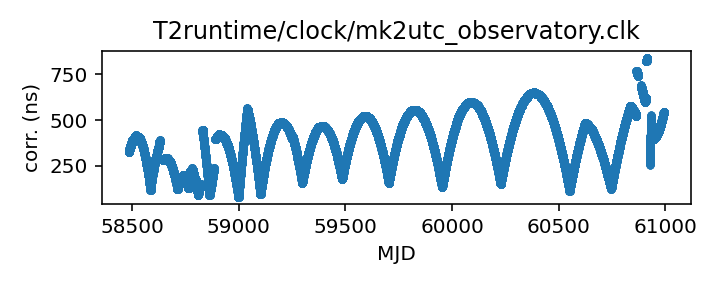
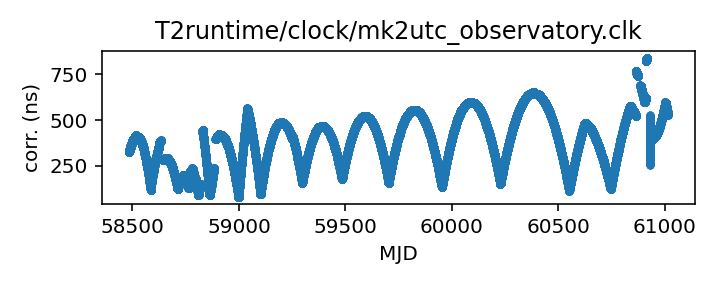
Routine gh-pages update from Github action Mon Dec 15 20:47:14 UTC 2025

diff --git a/status.md b/status.md
@@ -13,18 +13,18 @@ name of each clock file links to a page with more details.
 
 | Name | File | Corrections start | Corrections end | Last check date | Last check result 
 |:--- |:--- | --- | --- | --- |:--- 
-| [GPS to UTC](T2runtime/clock/gps2utc.clk.html) | `T2runtime/clock/gps2utc.clk` | 1993-01-01 MJD 48988.0 | 2025-11-30 MJD 61009.0 | 2025-12-14 | Unchanged 
-| [GPS to UTC (Combined Clock)](T2runtime/clock/gps2utc_cc.clk.html) | `T2runtime/clock/gps2utc_cc.clk` | 1993-01-01 MJD 48988.0 | 2025-11-30 MJD 61009.0 | 2025-12-14 | Unchanged 
-| [GPS to UTC (Corrected)](T2runtime/clock/gps2utc_c0p.clk.html) | `T2runtime/clock/gps2utc_c0p.clk` | 2010-12-29 MJD 55559.0 | 2025-11-30 MJD 61009.0 | 2025-12-14 | Unchanged 
-| [GBT](tempo/clock/time_gbt.dat.html) | `tempo/clock/time_gbt.dat` | 2000-12-31 MJD 51909.5 | 2025-12-13 MJD 61022.5 | 2025-12-14 | Updated 
-| [GBT (TEMPO2 converted from TEMPO)](T2runtime/clock/gbt2gps.clk.html) | `T2runtime/clock/gbt2gps.clk` | 2000-12-31 MJD 51909.5 | 2024-05-18 MJD 60448.5 | 2025-12-14 | **Validation failed** 
-| [Jodrell Bank](T2runtime/clock/jb2gps.clk.html) | `T2runtime/clock/jb2gps.clk` | 2006-10-13 MJD 54021.4 | 2025-10-08 MJD 60956.0 | 2025-12-08 | **Validation failed** 
-| [Jodrell Bank Roach](T2runtime/clock/jbroach2jb.clk.html) | `T2runtime/clock/jbroach2jb.clk` | 2006-10-13 MJD 54021.4 | 2018-03-20 MJD 58197.6 | 2025-12-08 | Unchanged 
-| [Jodrell Bank DFB](T2runtime/clock/jbdfb2jb.clk.html) | `T2runtime/clock/jbdfb2jb.clk` | 2006-10-13 MJD 54021.4 | 2021-02-22 MJD 59268.0 | 2025-12-08 | Unchanged 
-| [Meerkat (observatory)](T2runtime/clock/mk2utc_observatory.clk.html) | `T2runtime/clock/mk2utc_observatory.clk` | 2019-01-01 MJD 58484.0 | 2025-11-14 MJD 60994.0 | 2025-12-08 | Unchanged 
-| [Leap seconds](tempo/clock/leap.sec.html) | `tempo/clock/leap.sec` | 1972-07-01 MJD 41499.0 | 2017-01-01 MJD 57754.0 | 2025-12-14 | Unchanged 
-| [UT1 table](tempo/clock/ut1.dat.html) | `tempo/clock/ut1.dat` | 1973-01-02 MJD 41684.0 | 2026-12-19 MJD 61393.0 | 2025-12-14 | Unchanged 
-| [UT1 table](T2runtime/clock/ut1.dat.html) | `T2runtime/clock/ut1.dat` | 1973-01-02 MJD 41684.0 | 2026-12-19 MJD 61393.0 | 2025-12-14 | Unchanged 
+| [GPS to UTC](T2runtime/clock/gps2utc.clk.html) | `T2runtime/clock/gps2utc.clk` | 1993-01-01 MJD 48988.0 | 2025-11-30 MJD 61009.0 | 2025-12-15 | Unchanged 
+| [GPS to UTC (Combined Clock)](T2runtime/clock/gps2utc_cc.clk.html) | `T2runtime/clock/gps2utc_cc.clk` | 1993-01-01 MJD 48988.0 | 2025-11-30 MJD 61009.0 | 2025-12-15 | Unchanged 
+| [GPS to UTC (Corrected)](T2runtime/clock/gps2utc_c0p.clk.html) | `T2runtime/clock/gps2utc_c0p.clk` | 2010-12-29 MJD 55559.0 | 2025-11-30 MJD 61009.0 | 2025-12-15 | Unchanged 
+| [GBT](tempo/clock/time_gbt.dat.html) | `tempo/clock/time_gbt.dat` | 2000-12-31 MJD 51909.5 | 2025-12-14 MJD 61023.5 | 2025-12-15 | Updated 
+| [GBT (TEMPO2 converted from TEMPO)](T2runtime/clock/gbt2gps.clk.html) | `T2runtime/clock/gbt2gps.clk` | 2000-12-31 MJD 51909.5 | 2024-05-18 MJD 60448.5 | 2025-12-15 | **Validation failed** 
+| [Jodrell Bank](T2runtime/clock/jb2gps.clk.html) | `T2runtime/clock/jb2gps.clk` | 2006-10-13 MJD 54021.4 | 2025-10-08 MJD 60956.0 | 2025-12-15 | **Validation failed** 
+| [Jodrell Bank Roach](T2runtime/clock/jbroach2jb.clk.html) | `T2runtime/clock/jbroach2jb.clk` | 2006-10-13 MJD 54021.4 | 2018-03-20 MJD 58197.6 | 2025-12-15 | Unchanged 
+| [Jodrell Bank DFB](T2runtime/clock/jbdfb2jb.clk.html) | `T2runtime/clock/jbdfb2jb.clk` | 2006-10-13 MJD 54021.4 | 2021-02-22 MJD 59268.0 | 2025-12-15 | Unchanged 
+| [Meerkat (observatory)](T2runtime/clock/mk2utc_observatory.clk.html) | `T2runtime/clock/mk2utc_observatory.clk` | 2019-01-01 MJD 58484.0 | 2025-12-06 MJD 61016.0 | 2025-12-15 | Updated 
+| [Leap seconds](tempo/clock/leap.sec.html) | `tempo/clock/leap.sec` | 1972-07-01 MJD 41499.0 | 2017-01-01 MJD 57754.0 | 2025-12-15 | Unchanged 
+| [UT1 table](tempo/clock/ut1.dat.html) | `tempo/clock/ut1.dat` | 1973-01-02 MJD 41684.0 | 2026-12-19 MJD 61393.0 | 2025-12-15 | Unchanged 
+| [UT1 table](T2runtime/clock/ut1.dat.html) | `T2runtime/clock/ut1.dat` | 1973-01-02 MJD 41684.0 | 2026-12-19 MJD 61393.0 | 2025-12-15 | Unchanged 
 
 
 
@@ -68,26 +68,26 @@ name of each clock file links to a page with more details.
 
 | Name | File | Corrections start | Corrections end | Last check date | Last check result 
 |:--- |:--- | --- | --- | --- |:--- 
-| [GPS to UTC (TEMPO2)](T2runtime/clock/gpst2utc_tempo2.clk.html) | `T2runtime/clock/gpst2utc_tempo2.clk` | 1993-01-01 MJD 48988.0 | 2024-12-30 MJD 60674.0 | 2025-12-08 | Unchanged 
-| [GBT (TEMPO2)](T2runtime/clock/gbt2gps_tempo2.clk.html) | `T2runtime/clock/gbt2gps_tempo2.clk` | 2000-12-31 MJD 51909.5 | 2020-02-25 MJD 58904.5 | 2025-12-08 | Unchanged 
-| [Jodrell Bank (TEMPO)](tempo/clock/time_jb.dat.html) | `tempo/clock/time_jb.dat` | 2006-10-13 MJD 54021.4 | 2019-05-13 MJD 58616.2 | 2025-12-08 | Unchanged 
-| [VLA](tempo/clock/time_vla.dat.html) | `tempo/clock/time_vla.dat` | 1990-10-27 MJD 48191.2 | 2025-02-10 MJD 60716.2 | 2025-12-08 | Unchanged 
-| [VLA (TEMPO2)](T2runtime/clock/vla2gps.clk.html) | `T2runtime/clock/vla2gps.clk` | 2015-02-01 MJD 57054.6 | 2025-02-10 MJD 60716.2 | 2025-12-08 | Unchanged 
-| [VLA to NIST](T2runtime/clock/vla2nist.clk.html) | `T2runtime/clock/vla2nist.clk` | 1990-10-27 MJD 48191.2 | 1993-11-13 MJD 49304.0 | 2025-12-08 | Unchanged 
-| [FAST](tempo/clock/time_fast.dat.html) | `tempo/clock/time_fast.dat` | 2017-07-27 MJD 57961.0 | 2025-08-25 MJD 60913.0 | 2025-12-08 | **Failed to download** 
-| [WSRT](T2runtime/clock/wsrt2gps.clk.html) | `T2runtime/clock/wsrt2gps.clk` | 1999-01-01 MJD 51179.5 | 2015-06-29 MJD 57202.1 | 2025-12-08 | Unchanged 
-| [WSRT (TEMPO)](tempo/clock/time_wsrt.dat.html) | `tempo/clock/time_wsrt.dat` | 1987-07-24 MJD 47000.0 | 2007-12-24 MJD 54458.0 | 2025-12-08 | **Validation failed** 
-| [Parkes](T2runtime/clock/pks2gps.clk.html) | `T2runtime/clock/pks2gps.clk` | 1858-11-17 MJD 0.0 | 2025-11-30 MJD 61009.1 | 2025-12-08 | Updated 
-| [Parkes (TEMPO)](tempo/clock/time_pks.dat.html) | `tempo/clock/time_pks.dat` | 1979-05-07 MJD 44000.0 | 2011-07-03 MJD 55745.8 | 2025-12-08 | Unchanged 
-| [SRT](T2runtime/clock/srt2gps.clk.html) | `T2runtime/clock/srt2gps.clk` | 2013-03-20 MJD 56371.0 | 2019-12-11 MJD 58828.0 | 2025-12-08 | Unchanged 
-| [Effelsberg](T2runtime/clock/eff2gps.clk.html) | `T2runtime/clock/eff2gps.clk` | 1993-11-29 MJD 49320.0 | 2015-06-22 MJD 57195.5 | 2025-12-08 | Unchanged 
-| [Effelsberg Asterix/PSRix](T2runtime/clock/effix2gps.clk.html) | `T2runtime/clock/effix2gps.clk` | 2011-01-01 MJD 55562.5 | 2021-03-21 MJD 59294.5 | 2025-12-08 | Unchanged 
-| [LEAP](T2runtime/clock/leap2effix.clk.html) | `T2runtime/clock/leap2effix.clk` | 2012-10-29 MJD 56230.0 | 2014-03-04 MJD 56720.0 | 2025-12-08 | Unchanged 
-| [NUPPI](tempo/clock/time_nuppi.dat.html) | `tempo/clock/time_nuppi.dat` | 2005-03-07 MJD 53436.0 | 2015-11-08 MJD 57334.6 | 2025-12-08 | Unchanged 
-| [Meerkat (TEMPO2)](T2runtime/clock/mk2utc.clk.html) | `T2runtime/clock/mk2utc.clk` | 2019-01-01 MJD 58484.0 | 2024-09-23 MJD 60576.9 | 2025-12-08 | **Validation failed** 
-| [MOST](T2runtime/clock/mo2gps.clk.html) | `T2runtime/clock/mo2gps.clk` | 2003-12-27 MJD 53000.0 | 2018-09-06 MJD 58367.0 | 2025-12-08 | Unchanged 
-| [Nancay to obspm](T2runtime/clock/ncyobs2obspm.clk.html) | `T2runtime/clock/ncyobs2obspm.clk` | 1988-05-18 MJD 47299.6 | 2024-12-30 MJD 60674.0 | 2025-12-08 | Unchanged 
-| [obspm](T2runtime/clock/obspm2gps.clk.html) | `T2runtime/clock/obspm2gps.clk` | 2003-12-01 MJD 52974.0 | 2023-10-27 MJD 60244.0 | 2025-12-08 | Unchanged 
+| [GPS to UTC (TEMPO2)](T2runtime/clock/gpst2utc_tempo2.clk.html) | `T2runtime/clock/gpst2utc_tempo2.clk` | 1993-01-01 MJD 48988.0 | 2024-12-30 MJD 60674.0 | 2025-12-15 | Unchanged 
+| [GBT (TEMPO2)](T2runtime/clock/gbt2gps_tempo2.clk.html) | `T2runtime/clock/gbt2gps_tempo2.clk` | 2000-12-31 MJD 51909.5 | 2020-02-25 MJD 58904.5 | 2025-12-15 | Unchanged 
+| [Jodrell Bank (TEMPO)](tempo/clock/time_jb.dat.html) | `tempo/clock/time_jb.dat` | 2006-10-13 MJD 54021.4 | 2019-05-13 MJD 58616.2 | 2025-12-15 | Unchanged 
+| [VLA](tempo/clock/time_vla.dat.html) | `tempo/clock/time_vla.dat` | 1990-10-27 MJD 48191.2 | 2025-02-10 MJD 60716.2 | 2025-12-15 | Unchanged 
+| [VLA (TEMPO2)](T2runtime/clock/vla2gps.clk.html) | `T2runtime/clock/vla2gps.clk` | 2015-02-01 MJD 57054.6 | 2025-02-10 MJD 60716.2 | 2025-12-15 | Unchanged 
+| [VLA to NIST](T2runtime/clock/vla2nist.clk.html) | `T2runtime/clock/vla2nist.clk` | 1990-10-27 MJD 48191.2 | 1993-11-13 MJD 49304.0 | 2025-12-15 | Unchanged 
+| [FAST](tempo/clock/time_fast.dat.html) | `tempo/clock/time_fast.dat` | 2017-07-27 MJD 57961.0 | 2025-08-25 MJD 60913.0 | 2025-12-15 | **Failed to download** 
+| [WSRT](T2runtime/clock/wsrt2gps.clk.html) | `T2runtime/clock/wsrt2gps.clk` | 1999-01-01 MJD 51179.5 | 2015-06-29 MJD 57202.1 | 2025-12-15 | Unchanged 
+| [WSRT (TEMPO)](tempo/clock/time_wsrt.dat.html) | `tempo/clock/time_wsrt.dat` | 1987-07-24 MJD 47000.0 | 2007-12-24 MJD 54458.0 | 2025-12-15 | **Validation failed** 
+| [Parkes](T2runtime/clock/pks2gps.clk.html) | `T2runtime/clock/pks2gps.clk` | 1858-11-17 MJD 0.0 | 2025-11-30 MJD 61009.1 | 2025-12-15 | Unchanged 
+| [Parkes (TEMPO)](tempo/clock/time_pks.dat.html) | `tempo/clock/time_pks.dat` | 1979-05-07 MJD 44000.0 | 2011-07-03 MJD 55745.8 | 2025-12-15 | Unchanged 
+| [SRT](T2runtime/clock/srt2gps.clk.html) | `T2runtime/clock/srt2gps.clk` | 2013-03-20 MJD 56371.0 | 2019-12-11 MJD 58828.0 | 2025-12-15 | Unchanged 
+| [Effelsberg](T2runtime/clock/eff2gps.clk.html) | `T2runtime/clock/eff2gps.clk` | 1993-11-29 MJD 49320.0 | 2015-06-22 MJD 57195.5 | 2025-12-15 | Unchanged 
+| [Effelsberg Asterix/PSRix](T2runtime/clock/effix2gps.clk.html) | `T2runtime/clock/effix2gps.clk` | 2011-01-01 MJD 55562.5 | 2021-03-21 MJD 59294.5 | 2025-12-15 | Unchanged 
+| [LEAP](T2runtime/clock/leap2effix.clk.html) | `T2runtime/clock/leap2effix.clk` | 2012-10-29 MJD 56230.0 | 2014-03-04 MJD 56720.0 | 2025-12-15 | Unchanged 
+| [NUPPI](tempo/clock/time_nuppi.dat.html) | `tempo/clock/time_nuppi.dat` | 2005-03-07 MJD 53436.0 | 2015-11-08 MJD 57334.6 | 2025-12-15 | Unchanged 
+| [Meerkat (TEMPO2)](T2runtime/clock/mk2utc.clk.html) | `T2runtime/clock/mk2utc.clk` | 2019-01-01 MJD 58484.0 | 2024-09-23 MJD 60576.9 | 2025-12-15 | **Validation failed** 
+| [MOST](T2runtime/clock/mo2gps.clk.html) | `T2runtime/clock/mo2gps.clk` | 2003-12-27 MJD 53000.0 | 2018-09-06 MJD 58367.0 | 2025-12-15 | Unchanged 
+| [Nancay to obspm](T2runtime/clock/ncyobs2obspm.clk.html) | `T2runtime/clock/ncyobs2obspm.clk` | 1988-05-18 MJD 47299.6 | 2024-12-30 MJD 60674.0 | 2025-12-15 | Unchanged 
+| [obspm](T2runtime/clock/obspm2gps.clk.html) | `T2runtime/clock/obspm2gps.clk` | 2003-12-01 MJD 52974.0 | 2023-10-27 MJD 60244.0 | 2025-12-15 | Unchanged 
 
 
 ### Further information:

diff --git a/T2runtime/clock/gbt2gps.clk.md b/T2runtime/clock/gbt2gps.clk.md
@@ -25,12 +25,11 @@ If questions arise about the conversion, contact Anne Archibald
 | Clock file start | 2000-12-31 MJD 51909.5 |
 | Clock file end | 2024-05-18 MJD 60448.5 |
 | Update interval (days) | 1 |
-| Last update attempt | 2025-12-14 |
+| Last update attempt | 2025-12-15 |
 | Last update result | Validation failed |
 
 Log entries from the last few update attempts:
 ```
-2025-12-05 20:44:34.061 - Validation failed: New version of T2runtime/clock/gbt2gps.clk MJDs differ from old version where they overlap in 8407 places
 2025-12-06 20:41:04.082 - Validation failed: New version of T2runtime/clock/gbt2gps.clk MJDs differ from old version where they overlap in 8407 places
 2025-12-07 20:41:15.629 - Validation failed: New version of T2runtime/clock/gbt2gps.clk MJDs differ from old version where they overlap in 8407 places
 2025-12-08 20:45:09.899 - Validation failed: New version of T2runtime/clock/gbt2gps.clk MJDs differ from old version where they overlap in 8407 places
@@ -40,6 +39,7 @@ Log entries from the last few update attempts:
 2025-12-12 20:44:18.350 - Validation failed: New version of T2runtime/clock/gbt2gps.clk MJDs differ from old version where they overlap in 8407 places
 2025-12-13 20:41:37.242 - Validation failed: New version of T2runtime/clock/gbt2gps.clk MJDs differ from old version where they overlap in 8407 places
 2025-12-14 20:42:13.657 - Validation failed: New version of T2runtime/clock/gbt2gps.clk MJDs differ from old version where they overlap in 8407 places
+2025-12-15 20:46:25.577 - Validation failed: New version of T2runtime/clock/gbt2gps.clk MJDs differ from old version where they overlap in 8407 places
 ```
 [Full log](https://raw.githubusercontent.com/ipta/pulsar-clock-corrections/main/log/T2runtime/clock/gbt2gps.clk.log)
 

diff --git a/T2runtime/clock/mk2utc.clk.md b/T2runtime/clock/mk2utc.clk.md
@@ -17,12 +17,11 @@ up-to-date.
 | Clock file start | 2019-01-01 MJD 58484.0 |
 | Clock file end | 2024-09-23 MJD 60576.9 |
 | Update interval (days) | 7 |
-| Last update attempt | 2025-12-08 |
+| Last update attempt | 2025-12-15 |
 | Last update result | Validation failed |
 
 Log entries from the last few update attempts:
 ```
-2025-10-06 20:40:08.391 - Validation failed: New version of T2runtime/clock/mk2utc.clk MJDs differ from old version where they overlap in 8252 places
 2025-10-13 20:39:52.771 - Validation failed: New version of T2runtime/clock/mk2utc.clk MJDs differ from old version where they overlap in 8252 places
 2025-10-20 20:42:38.257 - Validation failed: New version of T2runtime/clock/mk2utc.clk MJDs differ from old version where they overlap in 8252 places
 2025-10-27 20:40:10.855 - Validation failed: New version of T2runtime/clock/mk2utc.clk MJDs differ from old version where they overlap in 8252 places
@@ -32,6 +31,7 @@ Log entries from the last few update attempts:
 2025-11-24 20:42:18.833 - Validation failed: New version of T2runtime/clock/mk2utc.clk MJDs differ from old version where they overlap in 8252 places
 2025-12-01 20:40:24.422 - Validation failed: New version of T2runtime/clock/mk2utc.clk MJDs differ from old version where they overlap in 8252 places
 2025-12-08 20:45:27.535 - Validation failed: New version of T2runtime/clock/mk2utc.clk MJDs differ from old version where they overlap in 8252 places
+2025-12-15 20:46:46.109 - Validation failed: New version of T2runtime/clock/mk2utc.clk MJDs differ from old version where they overlap in 8252 places
 ```
 [Full log](https://raw.githubusercontent.com/ipta/pulsar-clock-corrections/main/log/T2runtime/clock/mk2utc.clk.log)
 

diff --git a/tempo/clock/time_wsrt.dat.md b/tempo/clock/time_wsrt.dat.md
@@ -20,12 +20,11 @@ should be the same information.
 | Clock file start | 1987-07-24 MJD 47000.0 |
 | Clock file end | 2007-12-24 MJD 54458.0 |
 | Update interval (days) | 7 |
-| Last update attempt | 2025-12-08 |
+| Last update attempt | 2025-12-15 |
 | Last update result | Validation failed |
 
 Log entries from the last few update attempts:
 ```
-2025-10-06 20:39:57.443 - Validation failed: New version of tempo/clock/time_wsrt.dat MJDs differ from old version where they overlap in 5 places
 2025-10-13 20:39:41.501 - Validation failed: New version of tempo/clock/time_wsrt.dat MJDs differ from old version where they overlap in 5 places
 2025-10-20 20:42:26.146 - Validation failed: New version of tempo/clock/time_wsrt.dat MJDs differ from old version where they overlap in 5 places
 2025-10-27 20:39:59.582 - Validation failed: New version of tempo/clock/time_wsrt.dat MJDs differ from old version where they overlap in 5 places
@@ -35,6 +34,7 @@ Log entries from the last few update attempts:
 2025-11-24 20:42:06.542 - Validation failed: New version of tempo/clock/time_wsrt.dat MJDs differ from old version where they overlap in 5 places
 2025-12-01 20:39:55.383 - Validation failed: New version of tempo/clock/time_wsrt.dat MJDs differ from old version where they overlap in 5 places
 2025-12-08 20:45:14.998 - Validation failed: New version of tempo/clock/time_wsrt.dat MJDs differ from old version where they overlap in 5 places
+2025-12-15 20:46:30.547 - Validation failed: New version of tempo/clock/time_wsrt.dat MJDs differ from old version where they overlap in 5 places
 ```
 [Full log](https://raw.githubusercontent.com/ipta/pulsar-clock-corrections/main/log/tempo/clock/time_wsrt.dat.log)
 

diff --git a/T2runtime/clock/mk2utc_observatory.clk.md b/T2runtime/clock/mk2utc_observatory.clk.md
@@ -19,14 +19,13 @@ If questions arise, contact Ryan Shannon <rshannon@swin.edu.au>
 | Format | tempo2 |
 | Bogus last correction | False |
 | Clock file start | 2019-01-01 MJD 58484.0 |
-| Clock file end | 2025-11-14 MJD 60994.0 |
+| Clock file end | 2025-12-06 MJD 61016.0 |
 | Update interval (days) | 7 |
-| Last update attempt | 2025-12-08 |
-| Last update result | Unchanged |
+| Last update attempt | 2025-12-15 |
+| Last update result | Updated |
 
 Log entries from the last few update attempts:
 ```
-2025-10-06 20:40:07.077 - Validation failed: Unable to read new version of T2runtime/clock/mk2utc_observatory.clk: Clock file /tmp/astropy-download-3288-vga3zoa1 appears to be out of order: 60933.96875 > 60929.0
 2025-10-13 20:39:51.453 - Updated
 2025-10-20 20:42:36.844 - Unchanged
 2025-10-27 20:40:09.489 - Unchanged
@@ -36,6 +35,7 @@ Log entries from the last few update attempts:
 2025-11-24 20:42:17.159 - Updated
 2025-12-01 20:40:23.018 - Unchanged
 2025-12-08 20:45:25.891 - Unchanged
+2025-12-15 20:46:44.305 - Updated
 ```
 [Full log](https://raw.githubusercontent.com/ipta/pulsar-clock-corrections/main/log/T2runtime/clock/mk2utc_observatory.clk.log)
 
@@ -44,7 +44,7 @@ Leading comments from clock file:
     # Tie of Karoo Telescope Time to UTC
     # This file is from the KTT-GNSS sensor, and does not include circular-T
     # MJD = (SensorTime(us)/86400e6)+40587    15-minute snapshots
-    # Created at unix time 1763626920.271524 from KTT mySQL database.
+    # Created at unix time 1765432583.5327 from KTT mySQL database.
     #
     # MJD (days)   KTT-UTC (seconds)
     #------------------------------------------------------

diff --git a/tempo/clock/time_fast.dat.md b/tempo/clock/time_fast.dat.md
@@ -16,12 +16,11 @@ This file is pulled from the FAST_ClockFile repository.
 | Clock file start | 2017-07-27 MJD 57961.0 |
 | Clock file end | 2025-08-25 MJD 60913.0 |
 | Update interval (days) | 7 |
-| Last update attempt | 2025-12-08 |
+| Last update attempt | 2025-12-15 |
 | Last update result | Failed to download |
 
 Log entries from the last few update attempts:
 ```
-2025-10-06 20:39:56.798 - Unchanged
 2025-10-13 20:39:40.875 - Failed to download: HTTP Error 404: Not Found
 2025-10-20 20:42:25.725 - Failed to download: HTTP Error 404: Not Found
 2025-10-27 20:39:58.812 - Failed to download: HTTP Error 404: Not Found
@@ -31,6 +30,7 @@ Log entries from the last few update attempts:
 2025-11-24 20:42:05.814 - Failed to download: HTTP Error 404: Not Found
 2025-12-01 20:39:54.759 - Failed to download: HTTP Error 404: Not Found
 2025-12-08 20:45:14.389 - Failed to download: HTTP Error 404: Not Found
+2025-12-15 20:46:29.919 - Failed to download: HTTP Error 404: Not Found
 ```
 [Full log](https://raw.githubusercontent.com/ipta/pulsar-clock-corrections/main/log/tempo/clock/time_fast.dat.log)
 

diff --git a/T2runtime/clock/jb2gps.clk.md b/T2runtime/clock/jb2gps.clk.md
@@ -24,12 +24,11 @@ If questions arise, contact Michael Keith
 | Clock file start | 2006-10-13 MJD 54021.4 |
 | Clock file end | 2025-10-08 MJD 60956.0 |
 | Update interval (days) | 7 |
-| Last update attempt | 2025-12-08 |
+| Last update attempt | 2025-12-15 |
 | Last update result | Validation failed |
 
 Log entries from the last few update attempts:
 ```
-2025-10-06 20:39:55.609 - Unchanged
 2025-10-13 20:39:39.898 - Updated
 2025-10-20 20:42:24.686 - Unchanged
 2025-10-27 20:39:57.564 - Unchanged
@@ -39,6 +38,7 @@ Log entries from the last few update attempts:
 2025-11-24 20:42:04.141 - Unchanged
 2025-12-01 20:39:53.361 - Unchanged
 2025-12-08 20:45:12.717 - Validation failed: New version of T2runtime/clock/jb2gps.clk clock corrections differ from old version where they overlap in 177 places
+2025-12-15 20:46:27.977 - Validation failed: New version of T2runtime/clock/jb2gps.clk clock corrections differ from old version where they overlap in 177 places
 ```
 [Full log](https://raw.githubusercontent.com/ipta/pulsar-clock-corrections/main/log/T2runtime/clock/jb2gps.clk.log)
 

diff --git a/tempo/clock/time_gbt.dat.md b/tempo/clock/time_gbt.dat.md
@@ -36,14 +36,13 @@ If questions arise, contact Ryan S. Lynch <rlynch@nrao.edu>.
 | Format | tempo |
 | Bogus last correction | False |
 | Clock file start | 2000-12-31 MJD 51909.5 |
-| Clock file end | 2025-12-13 MJD 61022.5 |
+| Clock file end | 2025-12-14 MJD 61023.5 |
 | Update interval (days) | 1 |
-| Last update attempt | 2025-12-14 |
+| Last update attempt | 2025-12-15 |
 | Last update result | Updated |
 
 Log entries from the last few update attempts:
 ```
-2025-12-05 20:44:33.990 - Updated
 2025-12-06 20:41:04.013 - Updated
 2025-12-07 20:41:15.558 - Updated
 2025-12-08 20:45:09.366 - Updated
@@ -53,12 +52,13 @@ Log entries from the last few update attempts:
 2025-12-12 20:44:18.284 - Updated
 2025-12-13 20:41:37.170 - Updated
 2025-12-14 20:42:13.586 - Updated
+2025-12-15 20:46:24.831 - Updated
 ```
 [Full log](https://raw.githubusercontent.com/ipta/pulsar-clock-corrections/main/log/tempo/clock/time_gbt.dat.log)
 
 Leading comments from clock file:
 
-     -2271.50       0.0        -0.486 1    32764-dec
+     -2271.50       0.0        -0.486 1    32765-dec
 
 
 

diff --git a/T2runtime/clock/gps2utc_c0p.clk.md b/T2runtime/clock/gps2utc_c0p.clk.md
@@ -30,12 +30,11 @@ about the BIPM's published corrections, contact <tai@bipm.org>.
 | Clock file start | 2010-12-29 MJD 55559.0 |
 | Clock file end | 2025-11-30 MJD 61009.0 |
 | Update interval (days) | 1 |
-| Last update attempt | 2025-12-14 |
+| Last update attempt | 2025-12-15 |
 | Last update result | Unchanged |
 
 Log entries from the last few update attempts:
 ```
-2025-12-05 20:44:33.168 - Unchanged
 2025-12-06 20:41:03.149 - Unchanged
 2025-12-07 20:41:15.084 - Unchanged
 2025-12-08 20:45:08.424 - Unchanged
@@ -45,6 +44,7 @@ Log entries from the last few update attempts:
 2025-12-12 20:44:16.866 - Unchanged
 2025-12-13 20:41:36.562 - Unchanged
 2025-12-14 20:42:12.588 - Unchanged
+2025-12-15 20:46:23.932 - Unchanged
 ```
 [Full log](https://raw.githubusercontent.com/ipta/pulsar-clock-corrections/main/log/T2runtime/clock/gps2utc_c0p.clk.log)
 

diff --git a/T2runtime/clock/gps2utc_cc.clk.md b/T2runtime/clock/gps2utc_cc.clk.md
@@ -29,12 +29,11 @@ about the BIPM's published corrections, contact <tai@bipm.org>.
 | Clock file start | 1993-01-01 MJD 48988.0 |
 | Clock file end | 2025-11-30 MJD 61009.0 |
 | Update interval (days) | 1 |
-| Last update attempt | 2025-12-14 |
+| Last update attempt | 2025-12-15 |
 | Last update result | Unchanged |
 
 Log entries from the last few update attempts:
 ```
-2025-12-05 20:44:33.159 - Unchanged
 2025-12-06 20:41:03.141 - Unchanged
 2025-12-07 20:41:15.075 - Unchanged
 2025-12-08 20:45:08.416 - Unchanged
@@ -44,6 +43,7 @@ Log entries from the last few update attempts:
 2025-12-12 20:44:16.859 - Unchanged
 2025-12-13 20:41:36.554 - Unchanged
 2025-12-14 20:42:12.580 - Unchanged
+2025-12-15 20:46:23.923 - Unchanged
 ```
 [Full log](https://raw.githubusercontent.com/ipta/pulsar-clock-corrections/main/log/T2runtime/clock/gps2utc_cc.clk.log)
 

diff --git a/tempo/clock/time_pks.dat.md b/tempo/clock/time_pks.dat.md
@@ -20,12 +20,11 @@ telescopes in the same file, distinguished only by observatory code.
 | Clock file start | 1979-05-07 MJD 44000.0 |
 | Clock file end | 2011-07-03 MJD 55745.8 |
 | Update interval (days) | 7 |
-| Last update attempt | 2025-12-08 |
+| Last update attempt | 2025-12-15 |
 | Last update result | Unchanged |
 
 Log entries from the last few update attempts:
 ```
-2025-10-06 20:40:02.549 - Unchanged
 2025-10-13 20:39:46.707 - Unchanged
 2025-10-20 20:42:32.593 - Unchanged
 2025-10-27 20:40:04.273 - Unchanged
@@ -35,6 +34,7 @@ Log entries from the last few update attempts:
 2025-11-24 20:42:10.059 - Unchanged
 2025-12-01 20:39:59.775 - Unchanged
 2025-12-08 20:45:19.193 - Unchanged
+2025-12-15 20:46:34.125 - Unchanged
 ```
 [Full log](https://raw.githubusercontent.com/ipta/pulsar-clock-corrections/main/log/tempo/clock/time_pks.dat.log)
 

diff --git a/T2runtime/clock/gps2utc.clk.md b/T2runtime/clock/gps2utc.clk.md
@@ -32,12 +32,11 @@ about the BIPM's published corrections, contact <tai@bipm.org>.
 | Clock file start | 1993-01-01 MJD 48988.0 |
 | Clock file end | 2025-11-30 MJD 61009.0 |
 | Update interval (days) | 1 |
-| Last update attempt | 2025-12-14 |
+| Last update attempt | 2025-12-15 |
 | Last update result | Unchanged |
 
 Log entries from the last few update attempts:
 ```
-2025-12-05 20:44:33.136 - Unchanged
 2025-12-06 20:41:03.119 - Unchanged
 2025-12-07 20:41:15.053 - Unchanged
 2025-12-08 20:45:08.395 - Unchanged
@@ -47,6 +46,7 @@ Log entries from the last few update attempts:
 2025-12-12 20:44:16.838 - Unchanged
 2025-12-13 20:41:36.532 - Unchanged
 2025-12-14 20:42:12.558 - Unchanged
+2025-12-15 20:46:23.901 - Unchanged
 ```
 [Full log](https://raw.githubusercontent.com/ipta/pulsar-clock-corrections/main/log/T2runtime/clock/gps2utc.clk.log)
 
